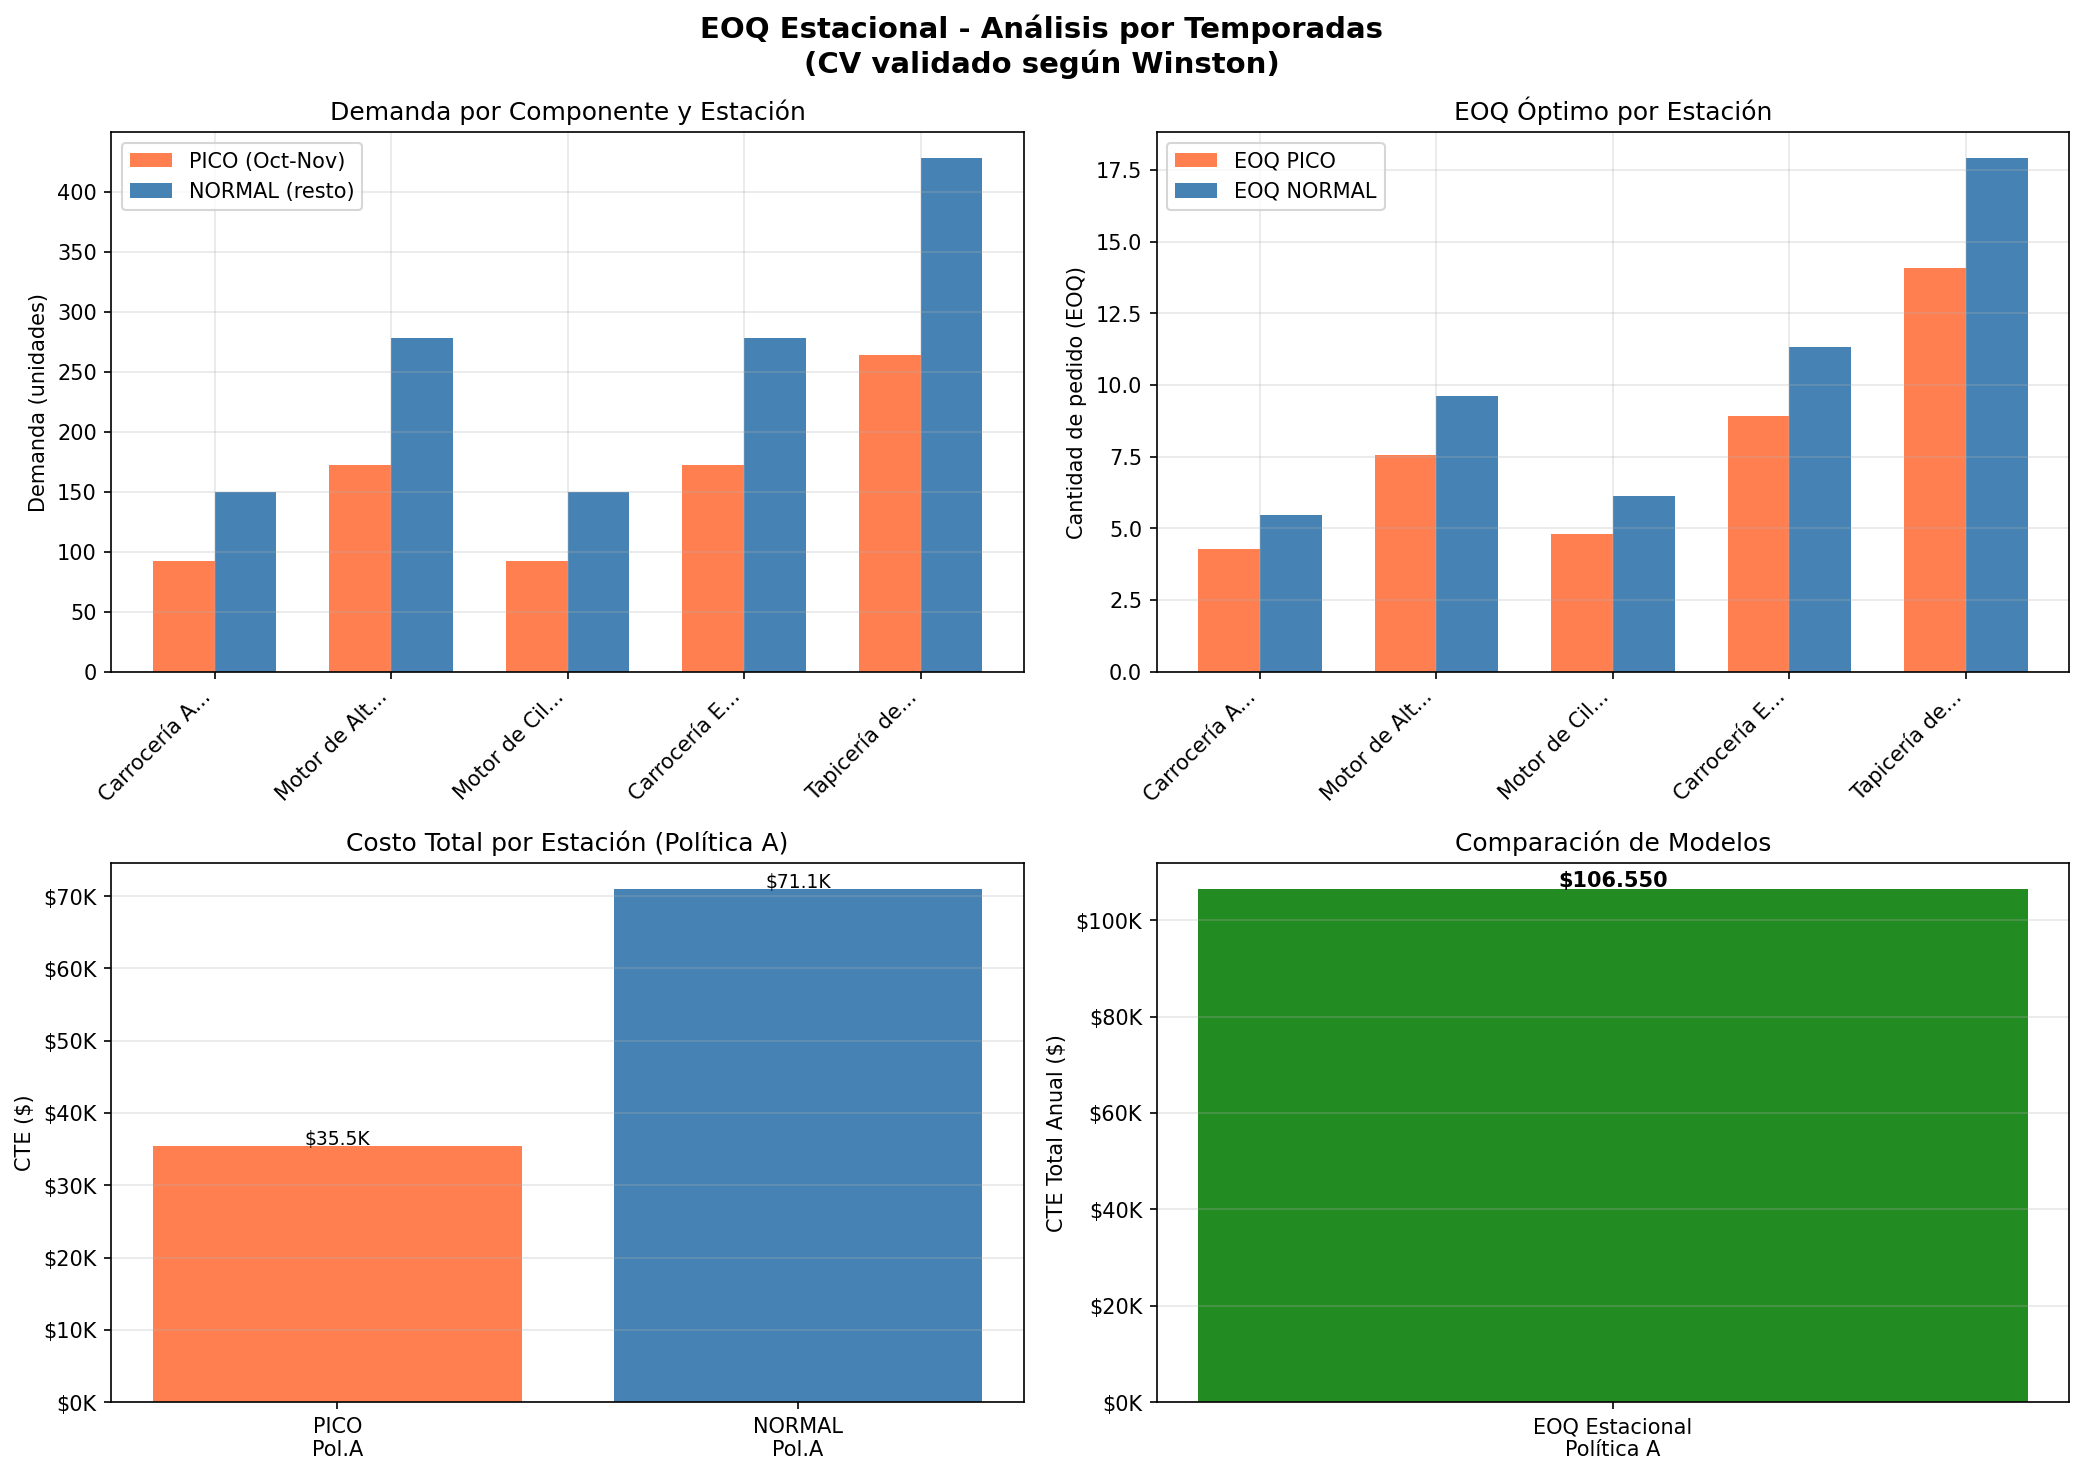
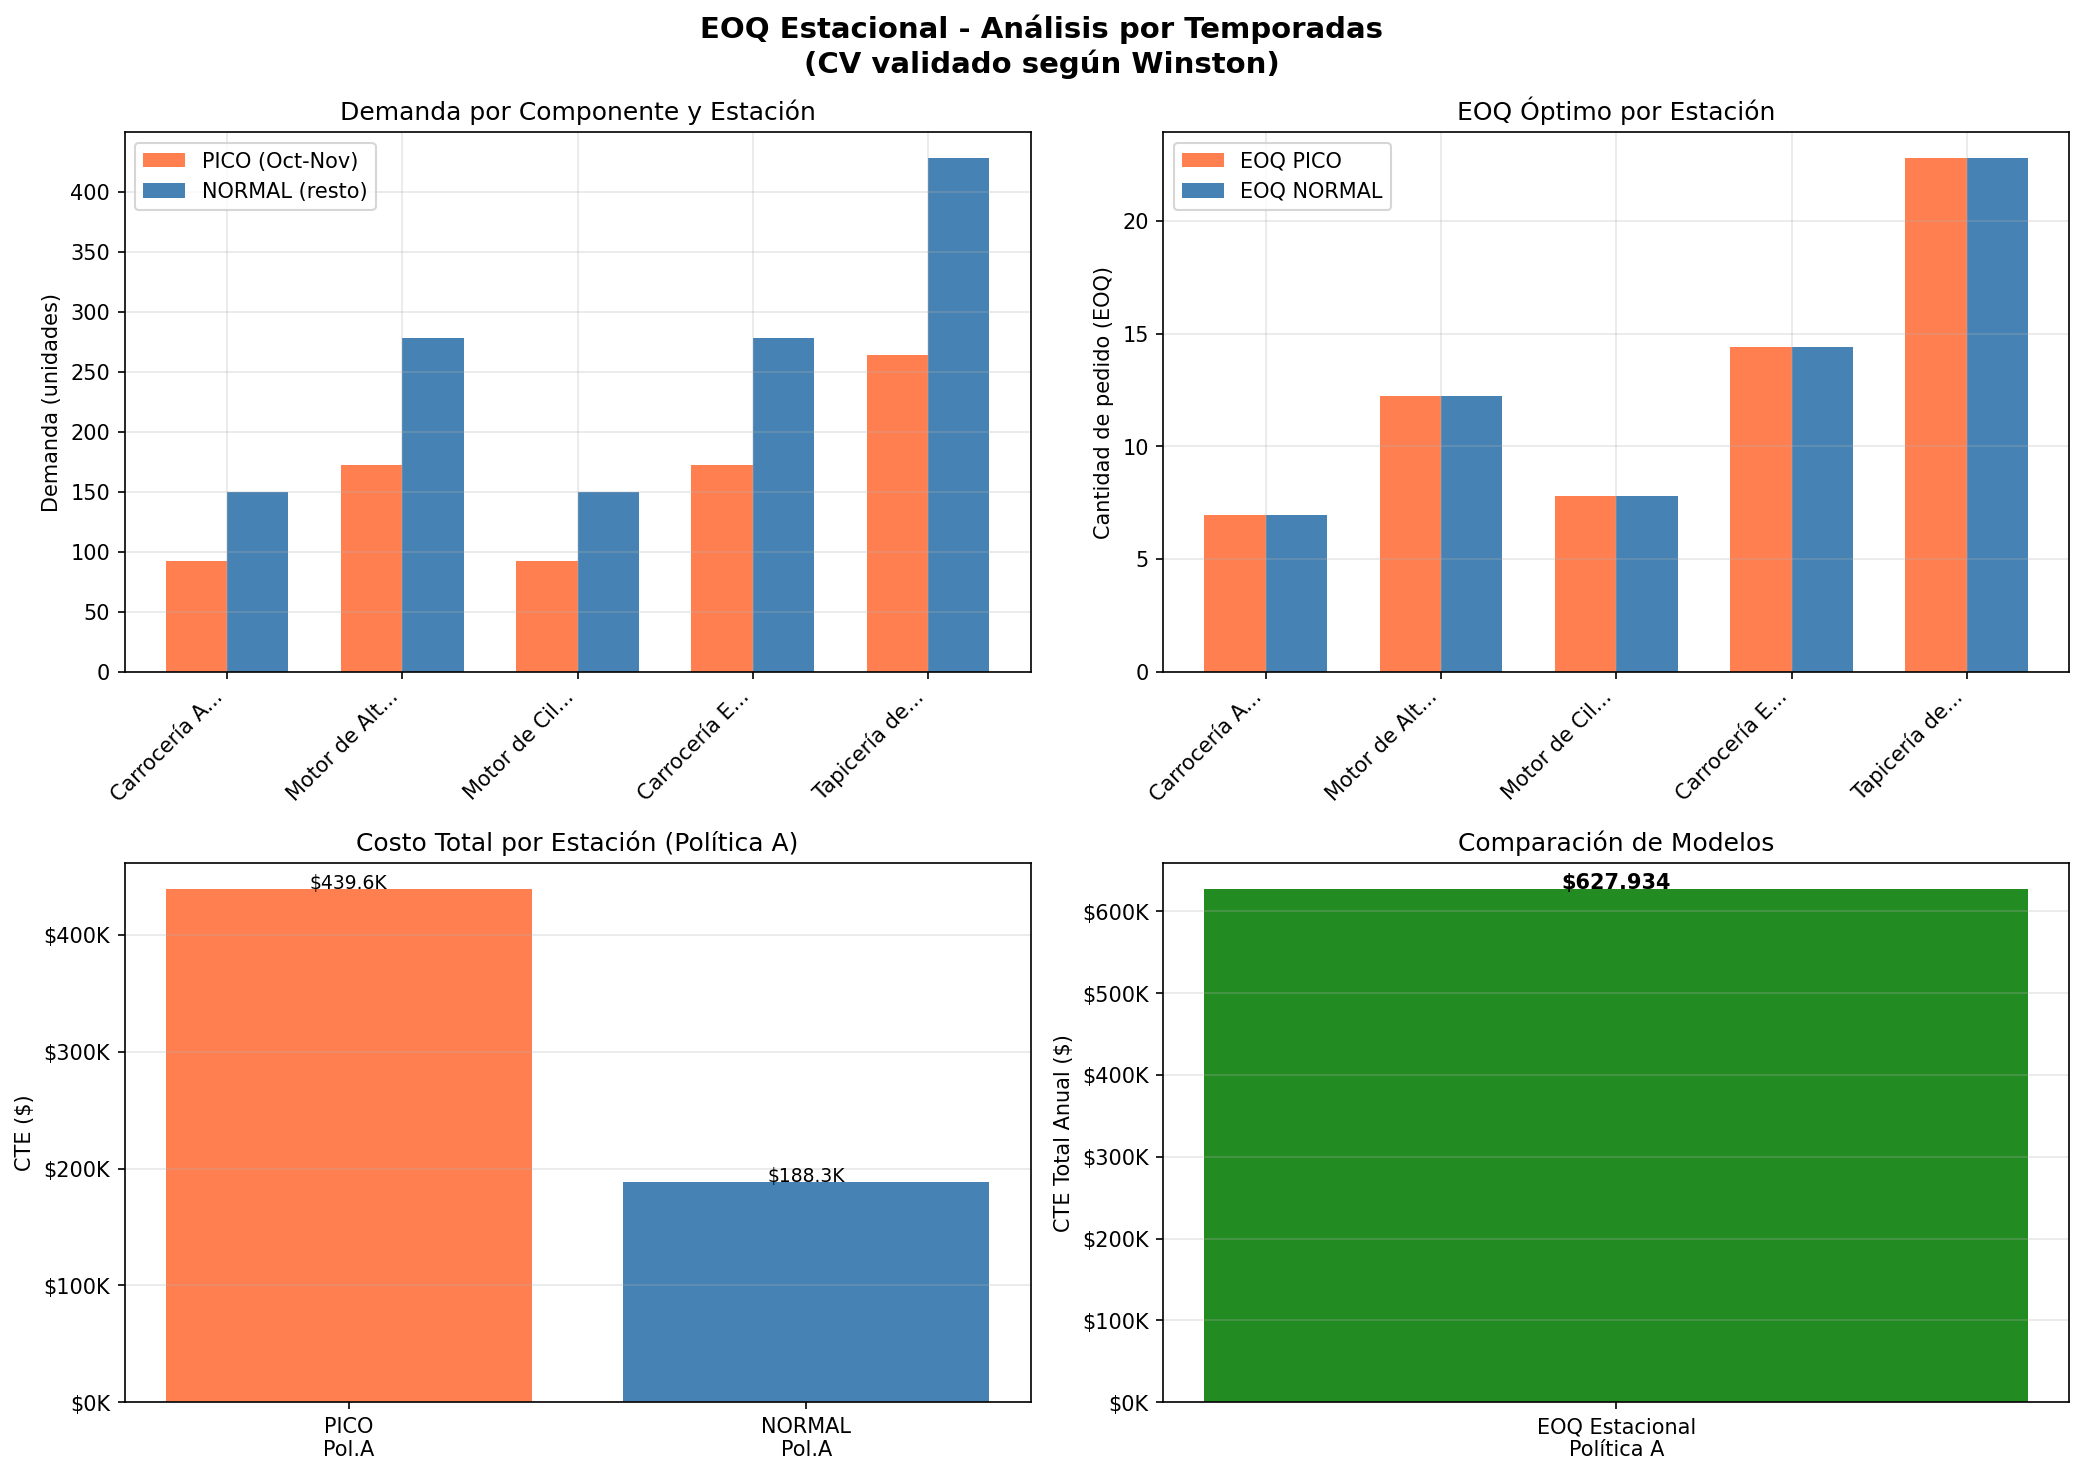
Minimal Storage Capacity analysis

diff --git a/src/inventory/eoq_estacional.py b/src/inventory/eoq_estacional.py
@@ -212,7 +212,7 @@ for idx, row in componentes.iterrows():
         sigma_mensual = demanda_mensual.std(ddof=0)
         Q = calcular_eoq(D_anual, COSTO_ORDENAR, H)
         N = D_anual / Q if Q > 0 else 0
-        # Para cada estación, calcular demanda y SS
+        # Para cada estación, calcular demanda y SS usando sigma_mensual de la estación
         for estacion, meses_estacion, fraccion, nombre_estacion in [
             ('PICO', MESES_PICO, FRACCION_PICO, 'PICO'),
             ('NORMAL', MESES_NORMAL, FRACCION_NORMAL, 'NORMAL')]:
@@ -221,8 +221,15 @@ for idx, row in componentes.iterrows():
             demanda_semanal_est = D_est / semanas_est if semanas_est > 0 else 0
             # Lead time en meses
             L_meses = L / SEMANAS_POR_MES
-            # Stock de seguridad
-            sigma_L = sigma_mensual * np.sqrt(L_meses)
+            # Calcular sigma_mensual solo con los meses de la estación
+            demanda_mensual_est = demanda_mensual[df_pronostico['Mes'].isin(meses_estacion)]
+            if len(demanda_mensual_est) < 2:
+                print(f"[ADVERTENCIA] Solo hay {len(demanda_mensual_est)} mes(es) en la estación {nombre_estacion} para el componente {row['Componente']}. No se puede calcular sigma_mensual correctamente.")
+                sigma_mensual_est = float('nan')
+            else:
+                sigma_mensual_est = demanda_mensual_est.std(ddof=0)
+            # Stock de seguridad específico por estación
+            sigma_L = sigma_mensual_est * np.sqrt(L_meses)
             SS = Z_ALPHA * sigma_L
             # ROP
             ROP = demanda_semanal_est * L + SS
@@ -242,7 +249,8 @@ for idx, row in componentes.iterrows():
                 'ROP': ROP,
                 'CTE': CTE,
                 'Costo_Unitario': C,
-                'Stock_Seguridad': SS
+                'Stock_Seguridad': SS,
+                'sigma_mensual': sigma_mensual_est
             })
     else:
         # --- ESTACIÓN PICO ---
@@ -340,6 +348,66 @@ df_resumen.to_csv(os.path.join(output_dir, f'eoq_estacional_resumen_{modo}.csv')
 cte_pico_total = df_pico['CTE'].sum()
 cte_normal_total = df_normal['CTE'].sum()
 cte_anual_estacional = cte_pico_total + cte_normal_total
+
+
+# === 11. TABLA DE VALORES CLAVE POR COMPONENTE Y ESTACIÓN ===
+import tabulate
+print("\n" + "="*70)
+print("TABLA DE VALORES CLAVE POR COMPONENTE Y ESTACIÓN")
+print("="*70)
+
+tabla = []
+columnas = [
+    "Componente", "Estacion", "Demanda_Estacion", "EOQ", "Num_Pedidos", "Lead_Time_Semanas",
+    "ROP", "Stock_Seguridad", "sigma_mensual", "fraccion", "CTE", "CT_Optimo"
+]
+
+
+# Usar el sigma_mensual y fraccion almacenados en cada resultado por estación
+for df in [df_pico, df_normal]:
+    for idx, row in df.iterrows():
+        comp = row['Componente']
+        lead_time = componentes[componentes['Componente'] == comp]['Lead_Time_Semanas'].values[0]
+        ss = row['Stock_Seguridad'] if 'Stock_Seguridad' in row else 0
+        fraccion = row['fraccion'] if 'fraccion' in row else (FRACCION_PICO if row['Estacion'] == 'PICO' else FRACCION_NORMAL)
+        sigma_mensual = row['sigma_mensual'] if 'sigma_mensual' in row else np.nan
+        tabla.append([
+            comp,
+            row['Estacion'],
+            row['Demanda_Estacion'],
+            row['EOQ'],
+            row['Num_Pedidos'],
+            lead_time,
+            row['ROP'],
+            ss,
+            sigma_mensual,
+            fraccion,
+            row['CTE'],
+            row['CT_Optimo']
+        ])
+
+try:
+    from tabulate import tabulate as tabulate_func
+except ImportError:
+    def tabulate_func(data, headers, floatfmt):
+        # Fallback simple si no está tabulate
+        header_line = " | ".join(headers)
+        lines = [header_line, "-"*len(header_line)]
+        for row in data:
+            lines.append(" | ".join([f"{x:.2f}" if isinstance(x, float) else str(x) for x in row]))
+        return "\n".join(lines)
+
+
+# Exportar la tabla de valores clave a un CSV
+tabla_df = pd.DataFrame(tabla, columns=columnas)
+# Redondear todas las columnas numéricas a 4 decimales
+for col in tabla_df.columns:
+    if pd.api.types.is_numeric_dtype(tabla_df[col]):
+        tabla_df[col] = tabla_df[col].round(4)
+tabla_csv_path = os.path.join(output_dir, 'tabla_valores_clave.csv')
+tabla_df.to_csv(tabla_csv_path, index=False)
+print(f"\n[OK] Tabla de valores clave exportada a: {tabla_csv_path}\n")
+print(tabulate_func(tabla, columnas, floatfmt=".4f"))
 
 print(f"\nResultados EOQ estacional ({modo}) exportados a: {output_dir}\n")
 print(df_pico.head())

diff --git a/src/warehouse/capacidad_minima_almacen.py b/src/warehouse/capacidad_minima_almacen.py
@@ -1,0 +1,92 @@
+"""
+Cálculo de la Capacidad Mínima de Almacén requerida para soportar el pronóstico de demanda.
+- Utiliza los volúmenes de cada componente y los resultados del pronóstico/EOQ estacional.
+- Considera el máximo inventario esperado por componente y estación.
+"""
+
+import os
+import pandas as pd
+
+# Rutas
+project_root = os.path.abspath(os.path.join(os.path.dirname(__file__), '..', '..'))
+output_dir = os.path.join(project_root, 'outputs', 'warehouse')
+os.makedirs(output_dir, exist_ok=True)
+
+# Cargar tabla de valores clave (resultado EOQ estacional)
+tabla_path = os.path.join(project_root, 'outputs', 'inventory', 'eoq_estacional', 'tabla_valores_clave.csv')
+tabla = pd.read_csv(tabla_path)
+
+# Definir volúmenes por componente (m³/unidad) según la definición del problema
+volumenes = {
+    'Motor de Alto Rendimiento V8': 0.8,
+    'Motor de Cilindros de Línea Raro': 0.9,
+    'Carrocería Artesanal de Época': 4.0,
+    'Carrocería Estándar (Fibra)': 3.5,
+    'Tapicería de Cuero Premium': 0.5
+    # Agregar más componentes aquí si se amplía el análisis
+}
+
+# Calcular el inventario máximo esperado por componente y estación
+# Inventario máximo ≈ ROP + EOQ (o ROP + Q/2 + SS, según política)
+resultados = []
+for idx, row in tabla.iterrows():
+    comp = row['Componente']
+    if comp not in volumenes:
+        continue  # Saltar componentes sin volumen definido
+    volumen = volumenes[comp]
+    # Inventario máximo considerando nivel de servicio: ROP + EOQ + Stock de Seguridad
+    ss = row['Stock_Seguridad'] if 'Stock_Seguridad' in row and not pd.isna(row['Stock_Seguridad']) else 0
+    inventario_max = row['ROP'] + row['EOQ'] + ss
+    capacidad_requerida = inventario_max * volumen
+    resultados.append({
+        'Componente': comp,
+        'Estacion': row['Estacion'],
+        'Inventario_Maximo': inventario_max,
+        'Volumen_por_Unidad_m3': volumen,
+        'Capacidad_Requerida_m3': capacidad_requerida
+    })
+
+
+# Crear DataFrame y redondear
+capacidad_df = pd.DataFrame(resultados)
+capacidad_df = capacidad_df.round(4)
+
+# Calcular totales por estación
+totales_estacion = capacidad_df.groupby('Estacion').agg({
+    'Inventario_Maximo': 'sum',
+    'Capacidad_Requerida_m3': 'sum'
+}).reset_index()
+
+# Determinar estación con mayor necesidad
+idx_max = totales_estacion['Capacidad_Requerida_m3'].idxmax()
+estacion_max = totales_estacion.loc[idx_max, 'Estacion']
+inv_max = totales_estacion.loc[idx_max, 'Inventario_Maximo']
+cap_max = totales_estacion.loc[idx_max, 'Capacidad_Requerida_m3']
+
+# Agregar fila de total de la estación más demandante
+total_row = {
+    'Componente': 'TOTAL',
+    'Estacion': f'{estacion_max} (mayor necesidad, suma de máximos por componente)',
+    'Inventario_Maximo': inv_max,
+    'Volumen_por_Unidad_m3': '—',
+    'Capacidad_Requerida_m3': cap_max
+}
+capacidad_df = pd.concat([capacidad_df, pd.DataFrame([total_row])], ignore_index=True)
+
+# Guardar resultados principales
+csv_path = os.path.join(output_dir, 'capacidad_minima_almacen.csv')
+capacidad_df.to_csv(csv_path, index=False)
+
+# Guardar totales por estación y resumen en el mismo CSV (agregando como nuevas filas)
+with open(csv_path, 'a', encoding='utf-8') as f:
+    f.write('\n')
+    f.write('Totales por estación,,Inventario_Maximo,Capacidad_Requerida_m3\n')
+    for _, row in totales_estacion.iterrows():
+        f.write(f"{row['Estacion']},,{row['Inventario_Maximo']},{row['Capacidad_Requerida_m3']}\n")
+    f.write(f"\nEstación con mayor necesidad:,{estacion_max},Inventario_Maximo:,{inv_max},Capacidad_Requerida_m3:,{cap_max}\n")
+
+print("[OK] Capacidad mínima de almacén calculada y exportada a:", csv_path)
+print(capacidad_df)
+print("\nTotales por estación:")
+print(totales_estacion)
+print(f"\nLa estación con mayor necesidad de almacén es: {estacion_max}")
